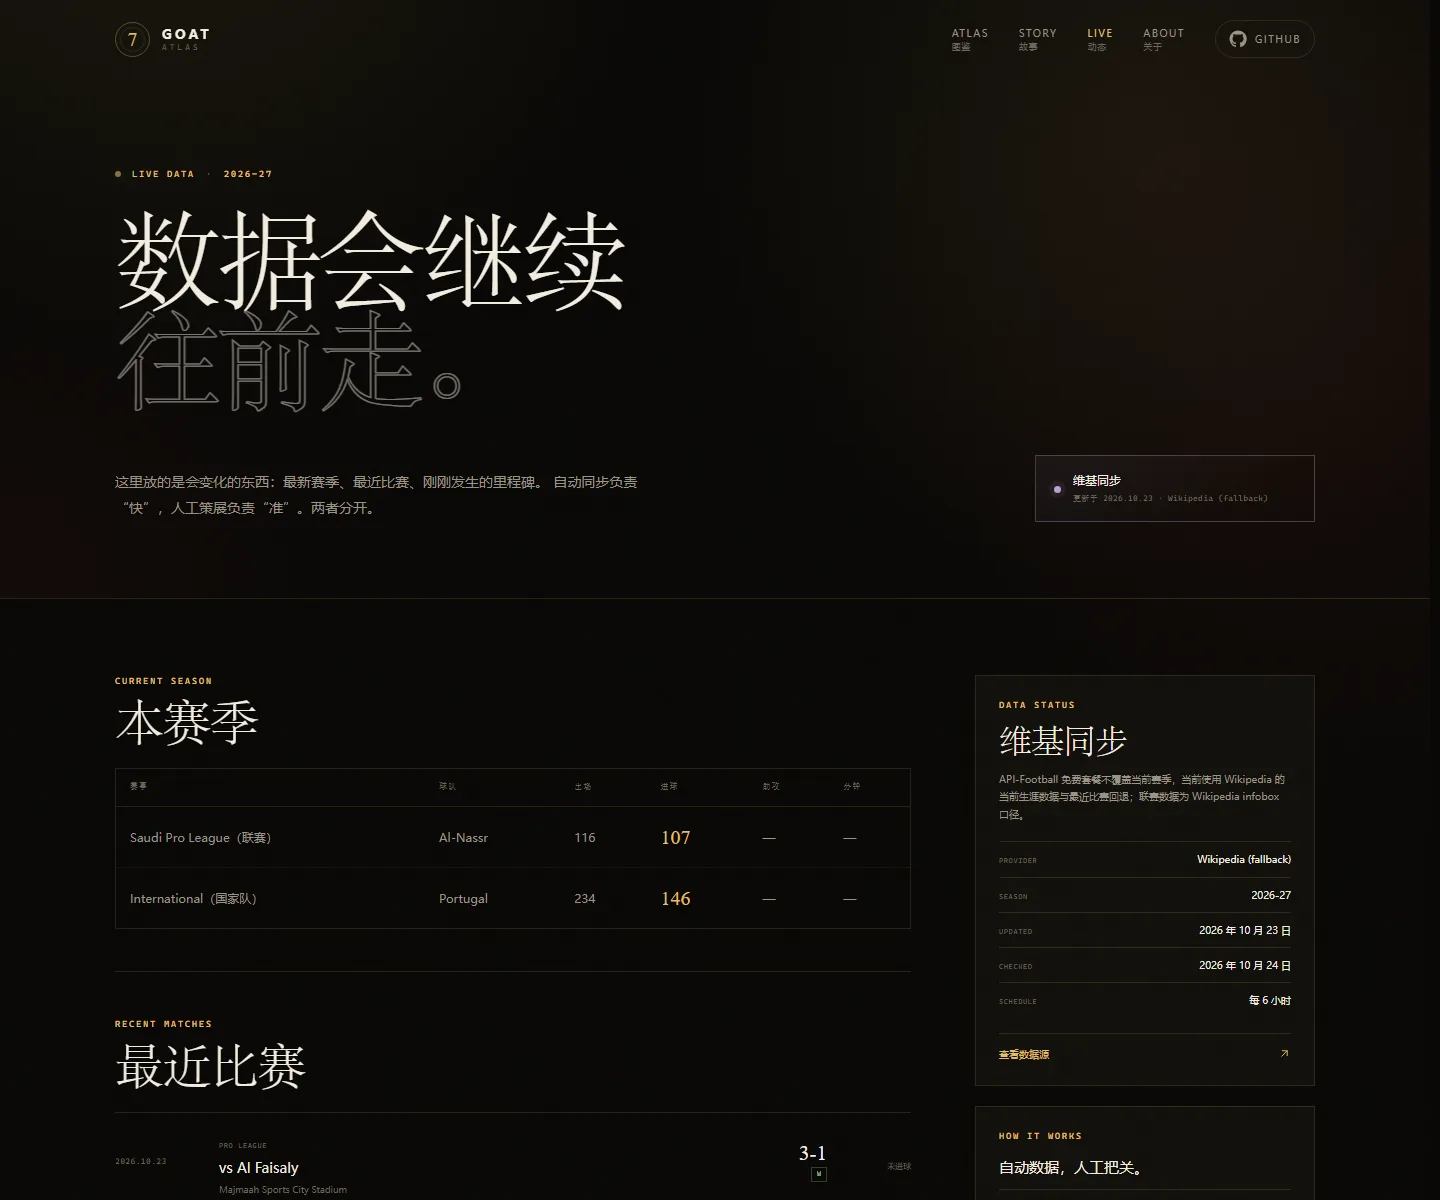
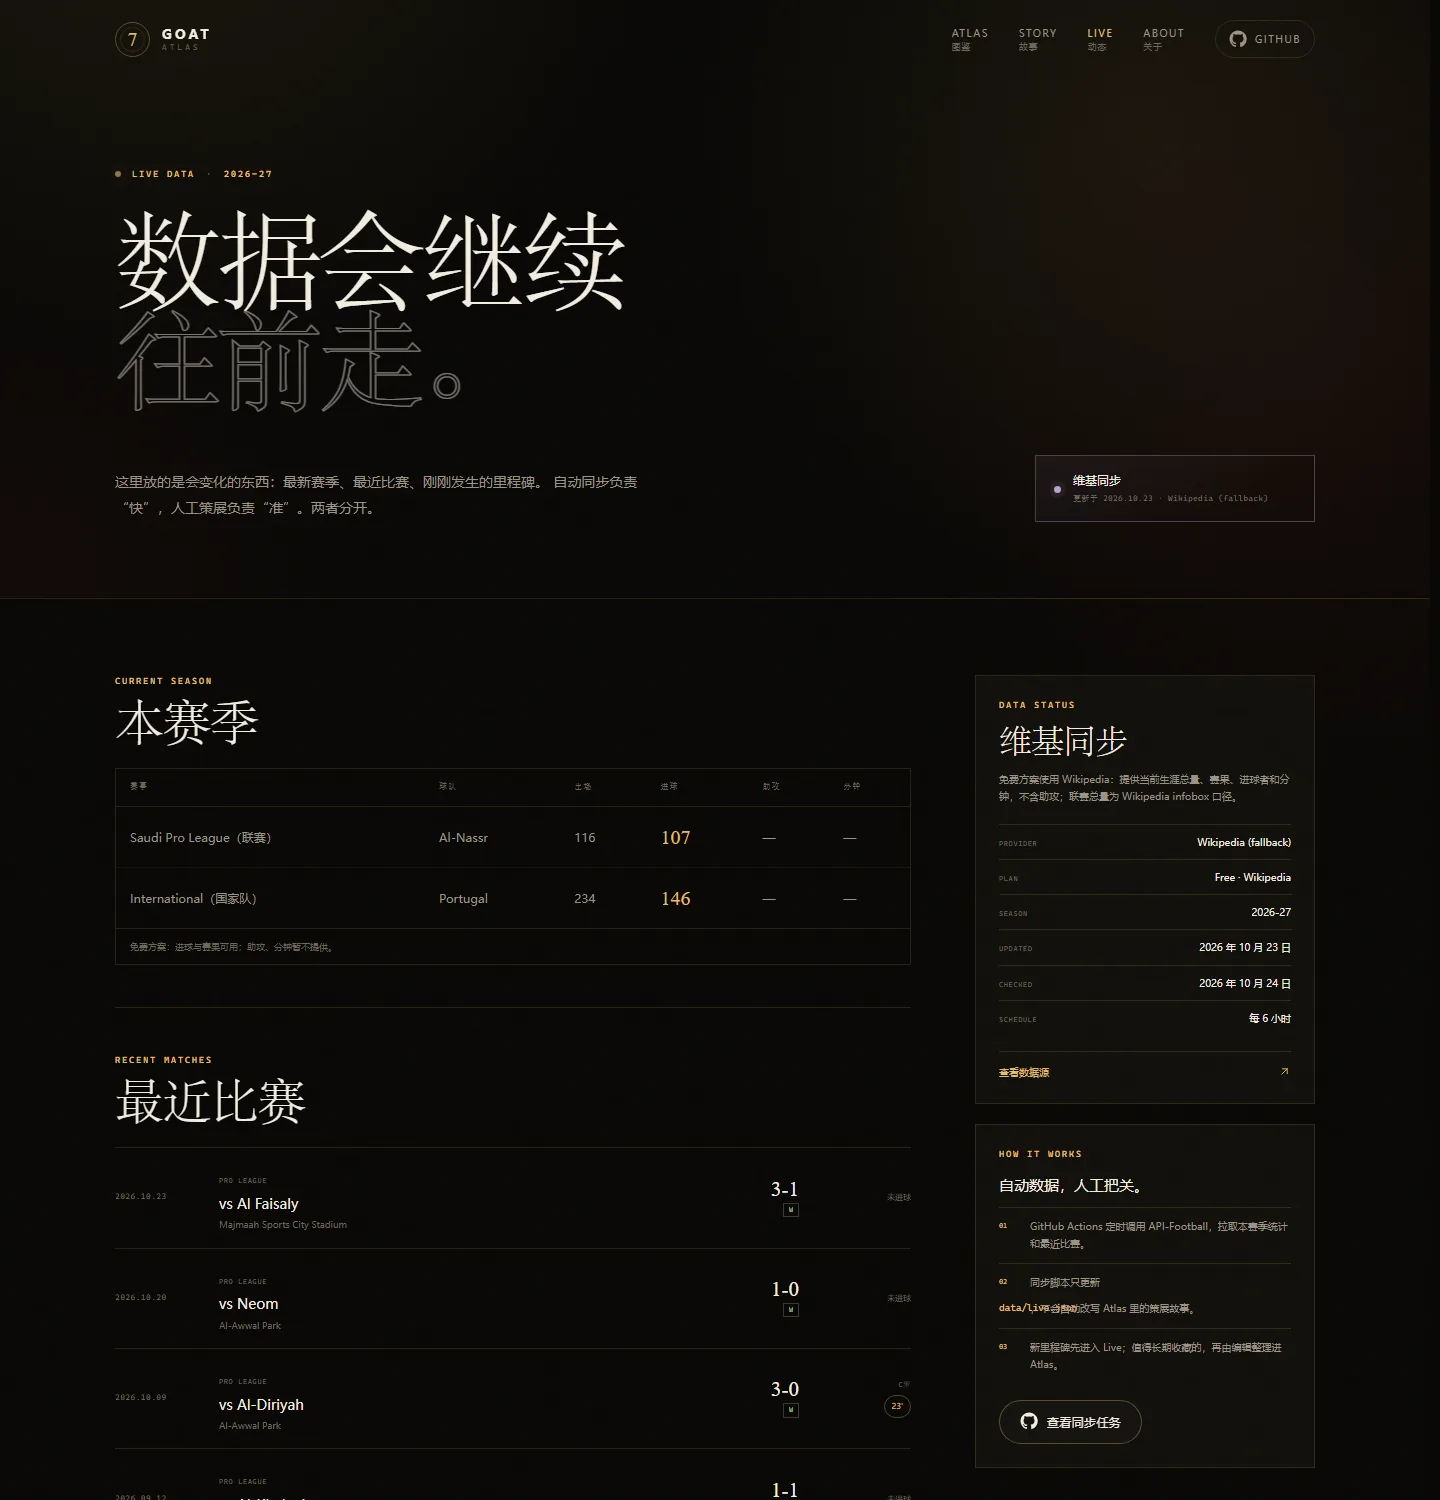
feat: show per-match goal minutes on live page

diff --git a/app/live/page.tsx b/app/live/page.tsx
@@ -93,6 +93,11 @@ export default function LivePage() {
                       ))}
                     </tbody>
                   </table>
+                  {live.status === "fallback" ? (
+                    <p className="live-table-note">
+                      免费方案：进球与赛果可用；助攻、分钟暂不提供。
+                    </p>
+                  ) : null}
                 </div>
               ) : (
                 <div className="live-empty">
@@ -135,9 +140,26 @@ export default function LivePage() {
                       </div>
                       <div className="match-goals">
                         {match.goals > 0 ? (
-                          <span className="goal-pill">
-                            {match.goals} 球
-                          </span>
+                          <>
+                            <span className="goal-label">C罗</span>
+                            <div className="goal-list">
+                              {match.ronaldoGoals?.length ? (
+                                match.ronaldoGoals.map((goal, index) => (
+                                  <span
+                                    className="goal-pill"
+                                    key={`${goal.minute ?? "na"}-${index}`}
+                                  >
+                                    {goal.minute ? `${goal.minute}'` : "进球"}
+                                    {goal.penalty ? " 点" : ""}
+                                  </span>
+                                ))
+                              ) : (
+                                <span className="goal-pill">
+                                  {match.goals} 球
+                                </span>
+                              )}
+                            </div>
+                          </>
                         ) : (
                           <span className="muted-pill">未进球</span>
                         )}

diff --git a/app/globals.css b/app/globals.css
@@ -3046,7 +3046,7 @@ svg {
 
 .match-row {
   display: grid;
-  grid-template-columns: 88px minmax(0, 1fr) 78px 68px;
+  grid-template-columns: 88px minmax(0, 1fr) 78px 96px;
   gap: 16px;
   align-items: center;
   padding: 16px 0;
@@ -3121,7 +3121,25 @@ svg {
 }
 
 .match-goals {
+  display: flex;
+  flex-direction: column;
+  align-items: flex-end;
+  gap: 4px;
   text-align: right;
+}
+
+.goal-label {
+  color: var(--muted-2);
+  font-family: var(--font-mono);
+  font-size: 7px;
+  letter-spacing: 0.1em;
+}
+
+.goal-list {
+  display: flex;
+  flex-wrap: wrap;
+  justify-content: flex-end;
+  gap: 3px;
 }
 
 .goal-pill {
@@ -3131,6 +3149,15 @@ svg {
   border-radius: 999px;
   color: var(--gold);
   font-size: 8px;
+  white-space: nowrap;
+}
+
+.live-table-note {
+  padding: 10px 14px;
+  border-top: 1px solid var(--line);
+  color: var(--muted-2);
+  font-size: 9px;
+  line-height: 1.6;
 }
 
 .muted-pill {
@@ -4162,7 +4189,12 @@ svg {
 
   .match-goals {
     grid-column: 1 / -1;
+    align-items: flex-start;
     text-align: left;
+  }
+
+  .goal-list {
+    justify-content: flex-start;
   }
 
   .milestone-row {

diff --git a/app/about/page.tsx b/app/about/page.tsx
@@ -195,10 +195,10 @@ export default function AboutPage() {
             <p>
               这是一份策展式样本，不是完整数据库。26 条记录覆盖了职业生涯的关键坐标，
               但远未穷尽所有比赛和进球。收录标准偏向“有叙事价值、可被验证、能代表一个阶段”。
-              当前策展数据截至 2025 年 6 月。最新赛季、最近比赛和里程碑由 Live
-              数据层承载：GitHub Actions 每 6 小时自动同步；API-Football 免费版
-              不覆盖当前赛季时，会自动回退到 Wikipedia 的当前数据。
-              自动数据不会改写 Atlas 里的策展故事。
+              当前策展数据截至 2025 年 6 月。最新赛季、最近比赛、C 罗进球分钟
+              和里程碑由 Live 数据层承载：GitHub Actions 每 6 小时自动同步；
+              API-Football 免费版不覆盖当前赛季时，会自动回退到 Wikipedia。
+              免费方案不含助攻，也不会自动改写 Atlas 里的策展故事。
             </p>
           </div>
         </div>

diff --git a/lib/schemas.ts b/lib/schemas.ts
@@ -86,6 +86,12 @@ const liveStatSchema = z.object({
   minutes: z.number().nonnegative().optional(),
 });
 
+const liveGoalSchema = z.object({
+  minute: z.string().nullable(),
+  penalty: z.boolean(),
+  ownGoal: z.boolean(),
+});
+
 const liveMatchSchema = z.object({
   date: z.string().min(1),
   competition: z.string().min(1),
@@ -93,6 +99,7 @@ const liveMatchSchema = z.object({
   score: z.string().min(1),
   result: z.enum(["W", "D", "L"]),
   goals: z.number().nonnegative(),
+  ronaldoGoals: z.array(liveGoalSchema).optional(),
   venue: z.string().optional(),
   sourceUrl: z.string().optional(),
 });

diff --git a/lib/types.ts b/lib/types.ts
@@ -92,6 +92,12 @@ export interface LiveStat {
   minutes?: number;
 }
 
+export interface LiveGoal {
+  minute: string | null;
+  penalty: boolean;
+  ownGoal: boolean;
+}
+
 export interface LiveMatch {
   date: string;
   competition: string;
@@ -99,6 +105,7 @@ export interface LiveMatch {
   score: string;
   result: "W" | "D" | "L";
   goals: number;
+  ronaldoGoals?: LiveGoal[];
   venue?: string;
   sourceUrl?: string;
 }

diff --git a/README.md b/README.md
@@ -39,7 +39,7 @@ C 罗是第一号展馆；数据结构从第一天起就是多球员设计。
 - **Story 故事模式**：六个章节，从里斯本到利雅得
 - **详情页**：比分、时间、球场、背景故事、为什么重要、来源链接
 - **分享卡**：一键生成 4:5 图片，支持 Web Share / 下载 / 复制链接
-- **Live 数据**：最新赛季、最近比赛、里程碑；免费方案已启用，GitHub Actions 每 6 小时自动同步
+- **Live 数据**：最新赛季、最近比赛、C 罗进球分钟、里程碑；免费方案已启用，GitHub Actions 每 6 小时自动同步
 - **来源标注**：每条记录至少一个可点击来源
 - **PWA**：可添加到主屏幕，带 manifest 和图标
 - **响应式**：手机、平板、桌面一套代码
@@ -172,6 +172,18 @@ pnpm dev
 ## Live 数据怎么更新
 
 **当前默认是免费方案：API-Football 免费版 → 自动回退 Wikipedia。** 不需要付费订阅，也不影响每 6 小时更新。
+
+免费方案能拿到：
+
+- 当前赛季联赛/国家队总量：出场、进球
+- 最近比赛结果、比分
+- C 罗每场进球分钟、点球标记
+
+免费方案拿不到：
+
+- 助攻
+- 每分钟/每场完整事件流
+- 进球级秒级推送
 
 `data/live.json` 是唯一的自动数据入口。`.github/workflows/deploy-pages.yml` 会：
 
